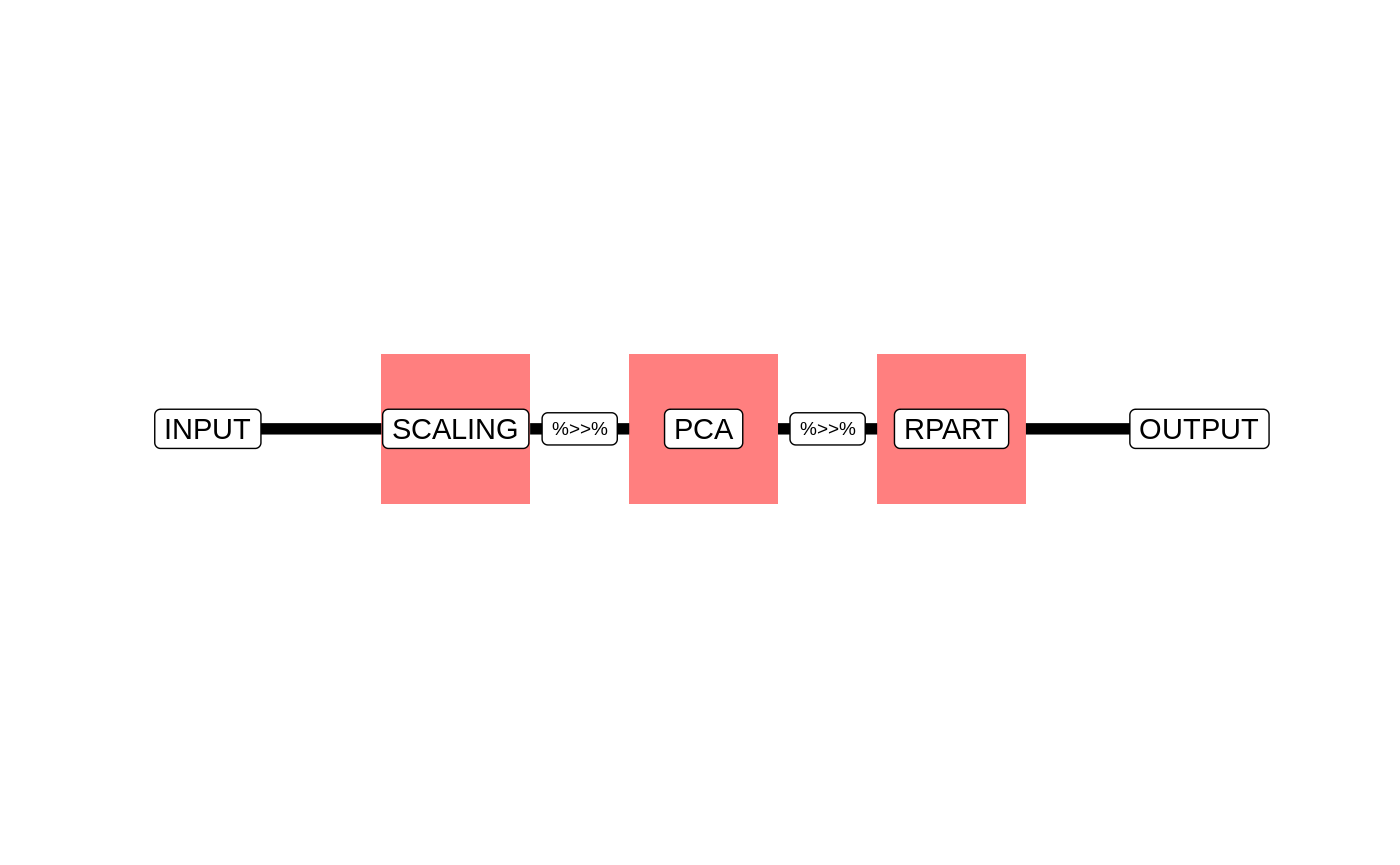
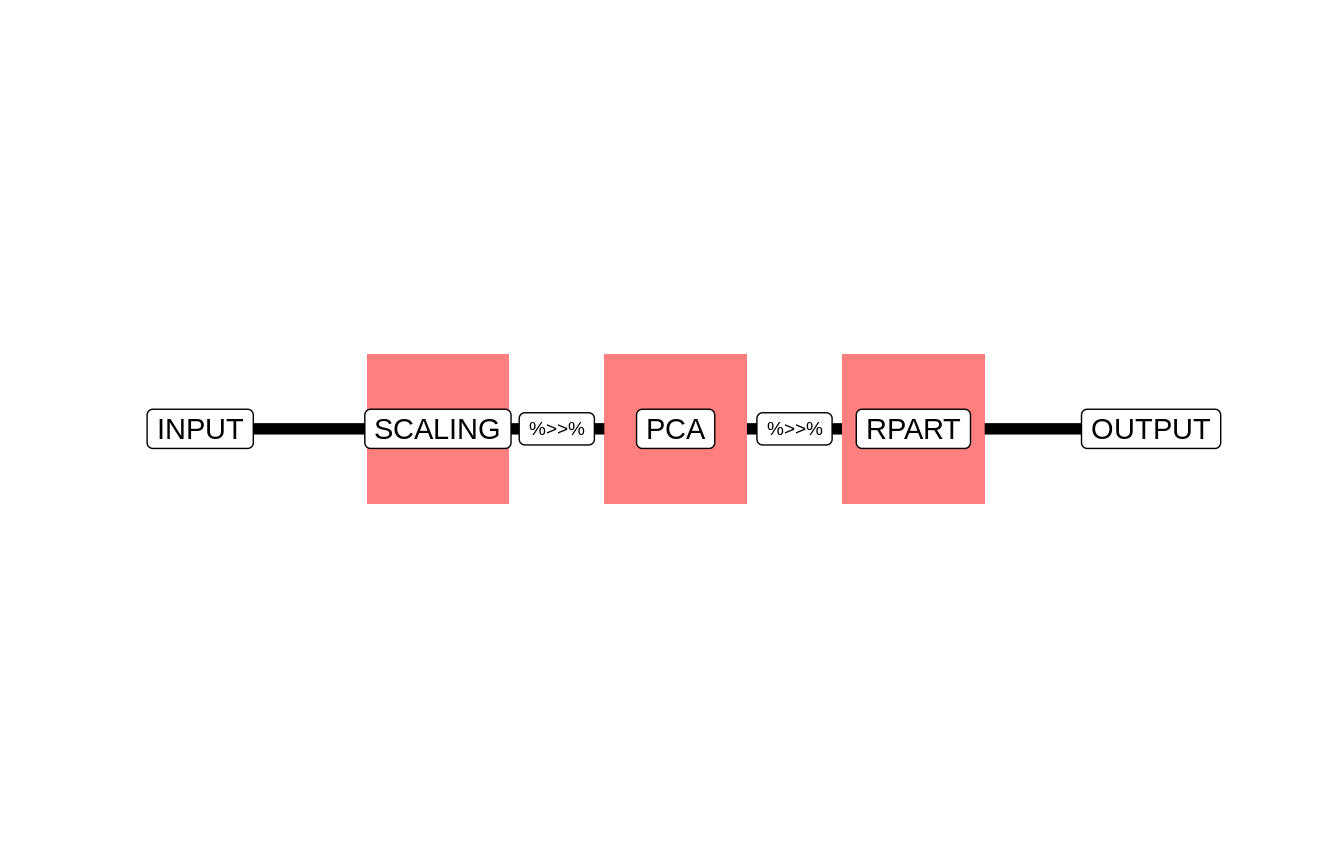
Deploy from Travis build 258 [ci skip]
Build URL: https://travis-ci.org/mlr-org/mlr3pipelines/builds/505167963
Commit: f2416330324dedf98f4c7cbd3020769bc892f855

diff --git a/docs/articles/a_simple_pipeline.html b/docs/articles/a_simple_pipeline.html
@@ -127,7 +127,7 @@
 <a href="#toc" class="anchor"></a>Table of Contents</h3>
       <ul>
 <li>
-<a href="#an-introduction-to-pipeoperators">An introduction to PipeOperators</a><ul>
+<a href="#an-introduction-to-pipeops">An introduction to “PipeOp”s</a><ul>
 <li><a href="#a-quick-glance-into-a-pipeop">A quick glance into a PipeOp</a></li>
       </ul>
 </li>
@@ -144,11 +144,11 @@
     
 <div class="contents">
 <p>This vignette showcases the general syntax and semantic behind <code>mlr3pipelines</code>.</p>
-<div id="an-introduction-to-pipeoperators" class="section level2">
+<div id="an-introduction-to-pipeops" class="section level2">
 <h2 class="hasAnchor">
-<a href="#an-introduction-to-pipeoperators" class="anchor"></a>An introduction to PipeOperators</h2>
+<a href="#an-introduction-to-pipeops" class="anchor"></a>An introduction to “PipeOp”s</h2>
 <p>In this example, we create a ĺinear Pipeline. After scaling all input features, we rotate our data using principal component analysis. After this transformation, we use a simple Decision Tree learner for classification.</p>
-<p>As exemplary data, we will use the <code>iris</code> task. This object contains the famous iris dataset and some meta-information, such as the target variable.</p>
+<p>As exemplary data, we will use the “<code>iris</code>” classification task. This object contains the famous iris dataset and some meta-information, such as the target variable.</p>
 <div class="sourceCode" id="cb1"><pre class="sourceCode r"><code class="sourceCode r"><a class="sourceLine" id="cb1-1" title="1">  <span class="kw"><a href="https://www.rdocumentation.org/packages/base/topics/library">library</a></span>(mlr3)</a>
 <a class="sourceLine" id="cb1-2" title="2">  task =<span class="st"> </span>mlr_tasks<span class="op">$</span><span class="kw"><a href="https://www.rdocumentation.org/packages/base/topics/get">get</a></span>(<span class="st">"iris"</span>)</a></code></pre></div>
 <p>We quickly split our data into a train and a test set:</p>
@@ -156,8 +156,13 @@
 <a class="sourceLine" id="cb2-2" title="2">  train.idx =<span class="st"> </span><span class="kw"><a href="https://www.rdocumentation.org/packages/base/topics/sets">setdiff</a></span>(<span class="kw"><a href="https://www.rdocumentation.org/packages/base/topics/seq">seq_len</a></span>(task<span class="op">$</span>nrow), test.idx)</a>
 <a class="sourceLine" id="cb2-3" title="3">  <span class="co"># Set task to only use train indexes</span></a>
 <a class="sourceLine" id="cb2-4" title="4">  task<span class="op">$</span>row_roles<span class="op">$</span>use =<span class="st"> </span>train.idx</a></code></pre></div>
-<p>A Pipeline (or <code>Graph</code>) contains multiple PipeOperators, where each <code>PipeOp</code> transforms the data when it flows through it. For this usecase, we require 3 transformations: - A PipeOp that scales the data - A PipeOp that performs PCA - A PipeOp that contains the <strong>Decision Tree</strong> learner</p>
-<p>A list of available PipeOps can be obtained from</p>
+<p>A Pipeline (or <code>Graph</code>) contains multiple pipeline operators (“<code>PipeOp</code>”s), where each <code>PipeOp</code> transforms the data when it flows through it. For this usecase, we require 3 transformations:</p>
+<ul>
+<li>A <code>PipeOp</code> that scales the data</li>
+<li>A <code>PipeOp</code> that performs PCA</li>
+<li>A <code>PipeOp</code> that contains the <strong>Decision Tree</strong> learner</li>
+</ul>
+<p>A list of available <code>PipeOp</code>s can be obtained from</p>
 <div class="sourceCode" id="cb3"><pre class="sourceCode r"><code class="sourceCode r"><a class="sourceLine" id="cb3-1" title="1">  <span class="kw"><a href="https://www.rdocumentation.org/packages/base/topics/library">library</a></span>(mlr3pipelines)</a>
 <a class="sourceLine" id="cb3-2" title="2">  mlr_pipeops<span class="op">$</span><span class="kw">keys</span>()</a>
 <a class="sourceLine" id="cb3-3" title="3"><span class="co">#&gt;  [1] "backuplearner"     "balancesample"     "branch"           </span></a>
@@ -167,19 +172,31 @@
 <a class="sourceLine" id="cb3-7" title="7"><span class="co">#&gt; [13] "modelavg"          "nloptmajorityvote" "nloptmodelavg"    </span></a>
 <a class="sourceLine" id="cb3-8" title="8"><span class="co">#&gt; [16] "null"              "pca"               "scale"            </span></a>
 <a class="sourceLine" id="cb3-9" title="9"><span class="co">#&gt; [19] "subsample"         "unbranch"</span></a></code></pre></div>
-<p>First we define the required PipeOps:</p>
+<p>First we define the required <code>PipeOp</code>s:</p>
 <div class="sourceCode" id="cb4"><pre class="sourceCode r"><code class="sourceCode r"><a class="sourceLine" id="cb4-1" title="1">  op1 =<span class="st"> </span>PipeOpScale<span class="op">$</span><span class="kw">new</span>()</a>
 <a class="sourceLine" id="cb4-2" title="2">  op2 =<span class="st"> </span>PipeOpPCA<span class="op">$</span><span class="kw">new</span>()</a>
 <a class="sourceLine" id="cb4-3" title="3">  op3 =<span class="st"> </span>PipeOpLearner<span class="op">$</span><span class="kw">new</span>(<span class="dt">learner =</span> mlr_learners<span class="op">$</span><span class="kw"><a href="https://www.rdocumentation.org/packages/base/topics/get">get</a></span>(<span class="st">"classif.rpart"</span>))</a></code></pre></div>
 <p>We can quickly visualize what we want to achieve:</p>
-<p><img src="a_simple_pipeline_files/figure-html/unnamed-chunk-5-1.png" width="700"></p>
+<p><img src="a_simple_pipeline_files/figure-html/unnamed-chunk-5-1.png" width="672"></p>
 <div id="a-quick-glance-into-a-pipeop" class="section level3">
 <h3 class="hasAnchor">
 <a href="#a-quick-glance-into-a-pipeop" class="anchor"></a>A quick glance into a PipeOp</h3>
 <p>In order to get a better understanding of what the respective PipeOps do, we quickly look at one of them in detail:</p>
-<p>The most important slots in a PipeOp are: - <code>train</code>: A function used to train the PipeOp. - <code>predict</code>: A function used to predict with the PipeOp. - <code>id</code>: Set/Get the id of the PipeOp.</p>
-<p>The <code>train()</code> and <code><a href="https://www.rdocumentation.org/packages/stats/topics/predict">predict()</a></code> functions define the core functionality of our PipeOp. In many cases, in order to not leak information from the test set into the training set it is imperative to treat train and test data separately. For this we require a <code>train</code> function that learns the appropriate transformations from the training set and a <code>test</code> function that applies the transformation on future data.</p>
-<p>In the case of <code>PipeOpPCA</code> this means the following: - <code>train()</code> learns a rotation matrix from its input and saves this matrix to an additional slot, <code>.$state</code>. It returns the rotated input data stored in a new <code>Task</code>. - <code><a href="https://www.rdocumentation.org/packages/stats/topics/predict">predict()</a></code> uses the rotation matrix stored in <code>.$state</code> in order to rotate future, unseen data. It returns those in a new <code>Task</code>.</p>
+<p>The most important slots in a PipeOp are:</p>
+<ul>
+<li>
+<code>$train()</code>: A function used to train the PipeOp.</li>
+<li>
+<code>$predict()</code>: A function used to predict with the PipeOp.</li>
+</ul>
+<p>The <code>$train()</code> and <code>$predict()</code> functions define the core functionality of our PipeOp. In many cases, in order to not leak information from the training set into the test set it is imperative to treat train and test data separately. For this we require a <code>$train()</code> function that learns the appropriate transformations from the training set and a <code>$test()</code> function that applies the transformation on future data.</p>
+<p>In the case of <code>PipeOpPCA</code> this means the following:</p>
+<ul>
+<li>
+<code>$train()</code> learns a rotation matrix from its input and saves this matrix to an additional slot, <code>$state</code>. It returns the rotated input data stored in a new <code>Task</code>.</li>
+<li>
+<code>$predict()</code> uses the rotation matrix stored in <code>$state</code> in order to rotate future, unseen data. It returns those in a new <code>Task</code>.</li>
+</ul>
 </div>
 </div>
 <div id="constructing-the-pipeline" class="section level2">
@@ -187,17 +204,18 @@
 <a href="#constructing-the-pipeline" class="anchor"></a>Constructing the Pipeline</h2>
 <p>We can now connect the <code>PipeOp</code>s constructed earlier to a <strong>Pipeline</strong>. We can do this using the <code>%&gt;&gt;%</code> operator.</p>
 <div class="sourceCode" id="cb5"><pre class="sourceCode r"><code class="sourceCode r"><a class="sourceLine" id="cb5-1" title="1">  linear_pipeline =<span class="st"> </span>op1 <span class="op">%&gt;&gt;%</span><span class="st"> </span>op2 <span class="op">%&gt;&gt;%</span><span class="st"> </span>op3</a></code></pre></div>
-<p>The result of this operation is a <code>graph</code>. A <code>graph</code> connects the input and output of each <code>PipeOp</code> to the following <code>PipeOp</code>. This allows us to specify linear processing pipelines. In this case, we connect the output of the <strong>scaling</strong> PipeOp to the input of the <strong>PCA</strong> PipeOp and the output of the <strong>PCA</strong> PipeOp to the input of <strong>PipeOpLearner</strong>.</p>
-<p>We can now train the <code>graph</code> using the iris <strong>Task</strong>.</p>
+<p>The result of this operation is a “<code>Graph</code>”. A <code>Graph</code> connects the input and output of each <code>PipeOp</code> to the following <code>PipeOp</code>. This allows us to specify linear processing pipelines. In this case, we connect the output of the <strong>scaling</strong> PipeOp to the input of the <strong>PCA</strong> PipeOp and the output of the <strong>PCA</strong> PipeOp to the input of <strong>PipeOpLearner</strong>.</p>
+<p>We can now train the <code>Graph</code> using the <code>iris</code> <strong>Task</strong>.</p>
 <div class="sourceCode" id="cb6"><pre class="sourceCode r"><code class="sourceCode r"><a class="sourceLine" id="cb6-1" title="1">  linear_pipeline<span class="op">$</span><span class="kw">train</span>(task)</a>
 <a class="sourceLine" id="cb6-2" title="2"><span class="co">#&gt; $rpart.output</span></a>
 <a class="sourceLine" id="cb6-3" title="3"><span class="co">#&gt; NULL</span></a></code></pre></div>
-<p>When we now train the graph, the data flows through the graph as follows: - The Task flows into the <code>PipeOpScale</code>. The <code>PipeOp</code> scales each column in the data contained in the Task and returns a new Task that contains the scaled data to its output. Relevant information</p>
+<p>When we now train the graph, the data flows through the graph as follows:</p>
 <ul>
-<li><p>The scaled task flows into the <code>PipeOpPCA</code>. PCA transforms the data and returns a (possibly smaller) Task, that contains the transformed data.</p></li>
-<li><p>This transformed data then flows into the learner, in our case <strong>classif.rpart</strong>. It is then used to train the learner, and as a result saves a model that can be used to predict new data.</p></li>
+<li>The Task flows into the <code>PipeOpScale</code>. The <code>PipeOp</code> scales each column in the data contained in the Task and returns a new Task that contains the scaled data to its output.</li>
+<li>The scaled task flows into the <code>PipeOpPCA</code>. PCA transforms the data and returns a (possibly smaller) Task, that contains the transformed data.</li>
+<li>This transformed data then flows into the learner, in our case <strong>classif.rpart</strong>. It is then used to train the learner, and as a result saves a model that can be used to predict new data.</li>
 </ul>
-<p>In order to predict on new data, we need to save the relevant transformations our data went through while training. As a result, each PipeOp saves a state, where information requried to appropriately transform future data is stored. In our case, this is <strong>mean</strong> and <strong>standard deviation</strong> of each column for <code>PipeOpScale</code>, the PCA rotation matrix for <code>PipeOpPCA</code> and the learned model for <code>PipeOpLearner</code>.</p>
+<p>In order to predict on new data, we need to save the relevant transformations our data went through while training. As a result, each <code>PipeOp</code> saves a state, where information requried to appropriately transform future data is stored. In our case, this is <strong>mean</strong> and <strong>standard deviation</strong> of each column for <code>PipeOpScale</code>, the PCA rotation matrix for <code>PipeOpPCA</code> and the learned model for <code>PipeOpLearner</code>.</p>
 <div class="sourceCode" id="cb7"><pre class="sourceCode r"><code class="sourceCode r"><a class="sourceLine" id="cb7-1" title="1">  <span class="co"># predict on test.idx</span></a>
 <a class="sourceLine" id="cb7-2" title="2">  task<span class="op">$</span>row_roles<span class="op">$</span>use =<span class="st"> </span>test.idx</a>
 <a class="sourceLine" id="cb7-3" title="3">  linear_pipeline<span class="op">$</span><span class="kw"><a href="https://www.rdocumentation.org/packages/stats/topics/predict">predict</a></span>(task)</a>
@@ -281,7 +299,7 @@
 <a class="sourceLine" id="cb12-14" title="14">  e<span class="op">$</span>performance[<span class="st">"classif.mmce"</span>]</a>
 <a class="sourceLine" id="cb12-15" title="15"><span class="co">#&gt; classif.mmce </span></a>
 <a class="sourceLine" id="cb12-16" title="16"><span class="co">#&gt;    0.1666667</span></a></code></pre></div>
-<p>This allows us to seamlessly integrate pipelines with the whole [mlr3] ecosystem, and thus for example resample or benchmark pipelines, tune its params and many more things.</p>
+<p>This allows us to seamlessly integrate pipelines with the whole <a href="https://mlr3.mlr-org.com">mlr3</a> ecosystem, and thus for example resample or benchmark pipelines, tune its params, and many more things.</p>
 <p>For additional information on <code>mlr3</code> please refer to the respective vignettes.</p>
 </div>
 </div>
@@ -293,7 +311,7 @@
 <a href="#tocnav" class="anchor"></a>Contents</h2>
       <ul class="nav nav-pills nav-stacked">
 <li>
-<a href="#an-introduction-to-pipeoperators">An introduction to PipeOperators</a><ul class="nav nav-pills nav-stacked">
+<a href="#an-introduction-to-pipeops">An introduction to “PipeOp”s</a><ul class="nav nav-pills nav-stacked">
 <li><a href="#a-quick-glance-into-a-pipeop">A quick glance into a PipeOp</a></li>
       </ul>
 </li>

diff --git a/docs/articles/create_a_custom_pipeop.html b/docs/articles/create_a_custom_pipeop.html
@@ -560,7 +560,7 @@
 <a class="sourceLine" id="cb21-5" title="5"><span class="co">#&gt;         ParamLgl$new("scale", default = TRUE)))</span></a>
 <a class="sourceLine" id="cb21-6" title="6"><span class="co">#&gt;     super$initialize(id = id, param_set = ps, param_vals = param_vals)</span></a>
 <a class="sourceLine" id="cb21-7" title="7"><span class="co">#&gt; }</span></a>
-<a class="sourceLine" id="cb21-8" title="8"><span class="co">#&gt; &lt;bytecode: 0x765b078&gt;</span></a>
+<a class="sourceLine" id="cb21-8" title="8"><span class="co">#&gt; &lt;bytecode: 0x6228ce8&gt;</span></a>
 <a class="sourceLine" id="cb21-9" title="9"><span class="co">#&gt; &lt;environment: namespace:mlr3pipelines&gt;</span></a></code></pre></div>
 <p>The user has access to this and can set and get parameters. Types are automatically checked:</p>
 <div class="sourceCode" id="cb22"><pre class="sourceCode r"><code class="sourceCode r"><a class="sourceLine" id="cb22-1" title="1">pss =<span class="st"> </span>PipeOpScale<span class="op">$</span><span class="kw">new</span>()</a>
@@ -587,7 +587,7 @@
 <a class="sourceLine" id="cb25-9" title="9"><span class="co">#&gt;     sc[, constfeat] = 0</span></a>
 <a class="sourceLine" id="cb25-10" title="10"><span class="co">#&gt;     sc</span></a>
 <a class="sourceLine" id="cb25-11" title="11"><span class="co">#&gt; }</span></a>
-<a class="sourceLine" id="cb25-12" title="12"><span class="co">#&gt; &lt;bytecode: 0x765ddd0&gt;</span></a>
+<a class="sourceLine" id="cb25-12" title="12"><span class="co">#&gt; &lt;bytecode: 0x622ba40&gt;</span></a>
 <a class="sourceLine" id="cb25-13" title="13"><span class="co">#&gt; &lt;environment: namespace:mlr3pipelines&gt;</span></a></code></pre></div>
 <p>Another change that is necessary compared to <code>PipeOpScaleAlways</code> is that the attributes <code>"scaled:scale"</code> and <code>"scaled:center"</code> are not always present, depending on parameters, and possibly need to be set to default values <span class="math inline">\(1\)</span> or <span class="math inline">\(0\)</span>, respectively.</p>
 <p>It is now even possible (if a bit pointless) to call <code>PipeOpScale</code> with both <code>scale</code> and <code>center</code> set to <code>FALSE</code>, which returns the original dataset, unchanged.</p>
